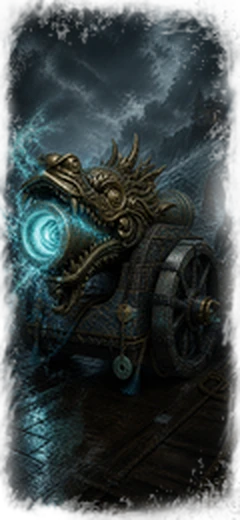
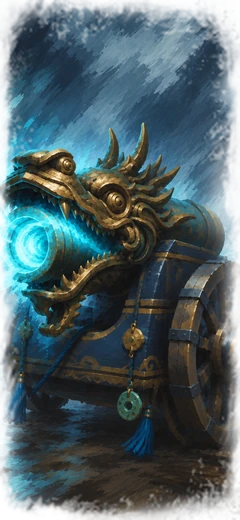
feat(art): 按 mod 最新美术重出兵牌、立绘与场景图
- 新增 scripts/build_art.py：从 nippon_expedition/art_source 取最新兵牌、人物卡、立绘、
  章节场景与海报，统一裁切 / 撕边遮罩 / 压成 webp、jpg（--mod 指定 mod 目录）
- 兵牌：10 张旧兵种换新图，新增晓行众（太刀）、晓行众（弓）、国崩巨鬼；
  另出 units/full/ 大图给兵种详情页
- 人物：武士大将拆成三张（朱甲金锹形 / 黑甲双角兜 / 黑甲月形前立），伊吹人形 / 妖形两张；
  另出 chars/portrait/ 立绘给人物详情页
- 场景：纱代、瑟兰娜、直虎换新图，新增伊吹；背景故事页用的海报 poster-1800.webp

Claude-Session: https://claude.ai/code/session_01PWyASCMGhamr1z4XciFJxf

diff --git a/scripts/build_art.py b/scripts/build_art.py
@@ -1,0 +1,162 @@
+#!/usr/bin/env python3
+"""
+build_art.py — 从 mod 仓库的美术母版生成站点用的图。
+
+    pip install pillow
+    python3 scripts/build_art.py [--mod <nippon_expedition 目录>]
+
+--mod 默认是 ../nippon_expedition（本仓库在 mod 工作区里时的相对位置）。
+mod 那边重画了兵牌 / 立绘之后重跑一次，产物入库。
+
+产物（全部是生成物，别手改）：
+    assets/units/<slug>.webp            兵牌 240×520，撕边
+    assets/units/full/<slug>.webp       兵种页大图 640 宽，不撕边
+    assets/chars/<key>.webp             人物卡 240×520，撕边
+    assets/chars/portrait/<key>.webp    人物页立绘 600×900（2:3，居中裁）
+    assets/scenes/<slug>.jpg            同伴横幅 800×450
+    assets/site/poster-1800.webp        背景故事页头图
+
+撕边遮罩全站共用一张：取 design/source 快照里 tide_guard_full_torn_edge.png 的 alpha，
+按目标尺寸缩放——和 mod 仓库 tools/build_torn_edge.py 是同一张遮罩。mod 那边重画后
+只更新了 `_full.png` 与游戏内的 120×260，不再有大尺寸撕边版，所以撕边在这里现做。
+
+RGB 与 alpha 分开缩放：母版是不透明的，撕边只是盖上去的遮罩，先合成再缩会把边缘外的
+颜色带进半透明像素里。
+"""
+from __future__ import annotations
+
+import argparse
+from pathlib import Path
+
+from PIL import Image
+
+ROOT = Path(__file__).resolve().parent.parent
+MASK_SRC = ROOT / "design/source/nippon_expedition/art_source/concepts/tide_guard/tide_guard_full_torn_edge.png"
+
+CARD = (240, 520)
+UNIT_FULL_W = 640
+PORTRAIT = (600, 900)
+SCENE = (800, 450)
+
+# 站点 slug -> art_source/concepts 下的 `_full.png`
+UNITS = {
+    "jade-sea-warriors": "jade_sea_sailors/jade_sea_sailors_full.png",
+    "tide-guard": "tide_guard/tide_guard_full.png",
+    "fleet-gunners": "jade_sea_fleet_gunner/jade_sea_fleet_gunner_full.png",
+    "empyrean-guard": "empyrean_guard/empyrean_guard_full.png",
+    "abyssal-grand-cannon": "abyssal_grand_cannon/abyssal_grand_cannon_full.png",
+    "yari-samurai": "yari_samurai/yari_samurai_full.png",
+    "teppo-samurai": "teppo_samurai/teppo_samurai_full.png",
+    "thunderblade-hatamoto": "hatamoto/thunderblade_hatamoto_full.png",
+    "kirin": "kirin/kirin_full.png",
+    "inari-fox": "shrine_messenger/shrine_messenger_full.png",
+    "akatsuki-shu-katana": "akatsuki_shu_katana/akatsuki_shu_katana_full.png",
+    "akatsuki-shu-bow": "akatsuki_shu_bow/akatsuki_shu_bow_full.png",
+    "kunikuzushi-oni": "kunikuzushi_oni/kunikuzushi_oni_full.png",
+}
+
+# 人物卡：key -> `_full.png`。⚠ 多数人物的 `_full` 只有 160–260 px 宽，是游戏兵牌的原尺寸，
+# 这里放大到 240 宽；要清楚的大图走下面的 PORTRAITS。
+CHAR_CARDS = {
+    "shen-changfeng": "shen_changfeng/shen_changfeng_full.png",
+    "naotora": "tachibana_naotora/tachibana_naotora_full.png",
+    "sayo": "sayo/sayo_full.png",
+    "serena": "serena/serena_full.png",
+    "ibuki": "ibuki/ibuki_full.png",
+    "ibuki-yokai": "ibuki/ibuki_yokai_full.png",
+    "samurai-taisho-01": "samurai_daisho/samurai_taisho_01_full.png",
+    "samurai-taisho-02": "samurai_daisho/samurai_taisho_02_full.png",
+    "samurai-taisho-03": "samurai_daisho/samurai_taisho_03_full.png",
+    "miko": "miko/miko_head1_full.png",
+    "fleet-admiral": "admiral/admiral_01_full.png",
+}
+
+# 人物页立绘。同伴用面板那套带背景的竖图（v2 / v3，2026-10-04 重画），其余用 2:3 母版。
+PORTRAITS = {
+    "shen-changfeng": "shen_changfeng/shen_changfeng_portrait.png",
+    "naotora": "tachibana_naotora/tachibana_naotora_background_vertical.png",
+    "sayo": "sayo/sayo_background_vertical.png",
+    "serena": "serena/serena_background_vertical.png",
+    "ibuki": "ibuki/ibuki_background_vertical.png",
+    "ibuki-yokai": "ibuki/ibuki_yokai_vertical.png",
+    "samurai-taisho-01": "samurai_daisho/samurai_taisho_01_full_src_2x3.png",
+    "samurai-taisho-02": "samurai_daisho/samurai_taisho_02_full_src_2x3.png",
+    "samurai-taisho-03": "samurai_daisho/samurai_taisho_03_full_src_2x3.png",
+    "miko": "miko/miko_head1_portrait.png",
+    "fleet-admiral": "admiral/admiral_01_full_body.png",
+}
+
+# 同伴横幅：任务弹窗插画的 16:9 母版（游戏里的 ui/eventpics 是它的 800×450 缩图）
+SCENES = {
+    "sayo": "sayo/sayo_background_landscape_16x9.png",
+    "serena": "serena/serena_background.png",
+    "naotora": "tachibana_naotora/tachibana_naotora_16x9.png",
+    "ibuki": "ibuki/ibuki_event_16x9.png",
+}
+
+POSTER = "loading_posters/npex_loading_poster_v4_rain_backview_1920x1080.png"
+
+
+def fit(im: Image.Image, size: tuple[int, int]) -> Image.Image:
+    """等比缩放后居中裁到目标比例。"""
+    tw, th = size
+    scale = max(tw / im.width, th / im.height)
+    w, h = round(im.width * scale), round(im.height * scale)
+    im = im.resize((w, h), Image.LANCZOS)
+    left, top = (w - tw) // 2, (h - th) // 2
+    return im.crop((left, top, left + tw, top + th))
+
+
+def torn_card(src: Path, mask: Image.Image) -> Image.Image:
+    rgb = fit(Image.open(src).convert("RGB"), CARD)
+    rgb.putalpha(mask.resize(CARD, Image.LANCZOS))
+    return rgb
+
+
+def save_webp(im: Image.Image, dst: Path, quality: int) -> None:
+    dst.parent.mkdir(parents=True, exist_ok=True)
+    im.save(dst, "WEBP", quality=quality, method=6)
+    print(f"  {dst.relative_to(ROOT)}  {im.width}×{im.height}  {dst.stat().st_size // 1024} KB")
+
+
+def main() -> None:
+    ap = argparse.ArgumentParser()
+    ap.add_argument("--mod", type=Path, default=ROOT.parent / "nippon_expedition")
+    args = ap.parse_args()
+    concepts = args.mod / "art_source" / "concepts"
+    if not concepts.is_dir():
+        raise SystemExit(f"找不到 {concepts}，用 --mod 指到 mod 仓库的 nippon_expedition 目录")
+
+    mask = Image.open(MASK_SRC).convert("RGBA").getchannel("A")
+
+    print("兵牌")
+    for slug, rel in UNITS.items():
+        src = concepts / rel
+        save_webp(torn_card(src, mask), ROOT / "assets/units" / f"{slug}.webp", 90)
+        full = Image.open(src).convert("RGB")
+        h = round(full.height * UNIT_FULL_W / full.width)
+        save_webp(full.resize((UNIT_FULL_W, h), Image.LANCZOS), ROOT / "assets/units/full" / f"{slug}.webp", 85)
+
+    print("人物卡")
+    for key, rel in CHAR_CARDS.items():
+        save_webp(torn_card(concepts / rel, mask), ROOT / "assets/chars" / f"{key}.webp", 90)
+
+    print("人物立绘")
+    for key, rel in PORTRAITS.items():
+        im = Image.open(concepts / rel).convert("RGB")
+        save_webp(fit(im, PORTRAIT), ROOT / "assets/chars/portrait" / f"{key}.webp", 85)
+
+    print("同伴横幅")
+    for slug, rel in SCENES.items():
+        dst = ROOT / "assets/scenes" / f"{slug}.jpg"
+        fit(Image.open(concepts / rel).convert("RGB"), SCENE).save(dst, "JPEG", quality=86, optimize=True, progressive=True)
+        print(f"  {dst.relative_to(ROOT)}  {dst.stat().st_size // 1024} KB")
+
+    print("头图")
+    poster = Image.open(concepts / POSTER).convert("RGB")
+    save_webp(poster.resize((1800, round(poster.height * 1800 / poster.width)), Image.LANCZOS),
+              ROOT / "assets/site/poster-1800.webp", 82)
+
+
+if __name__ == "__main__":
+    main()
